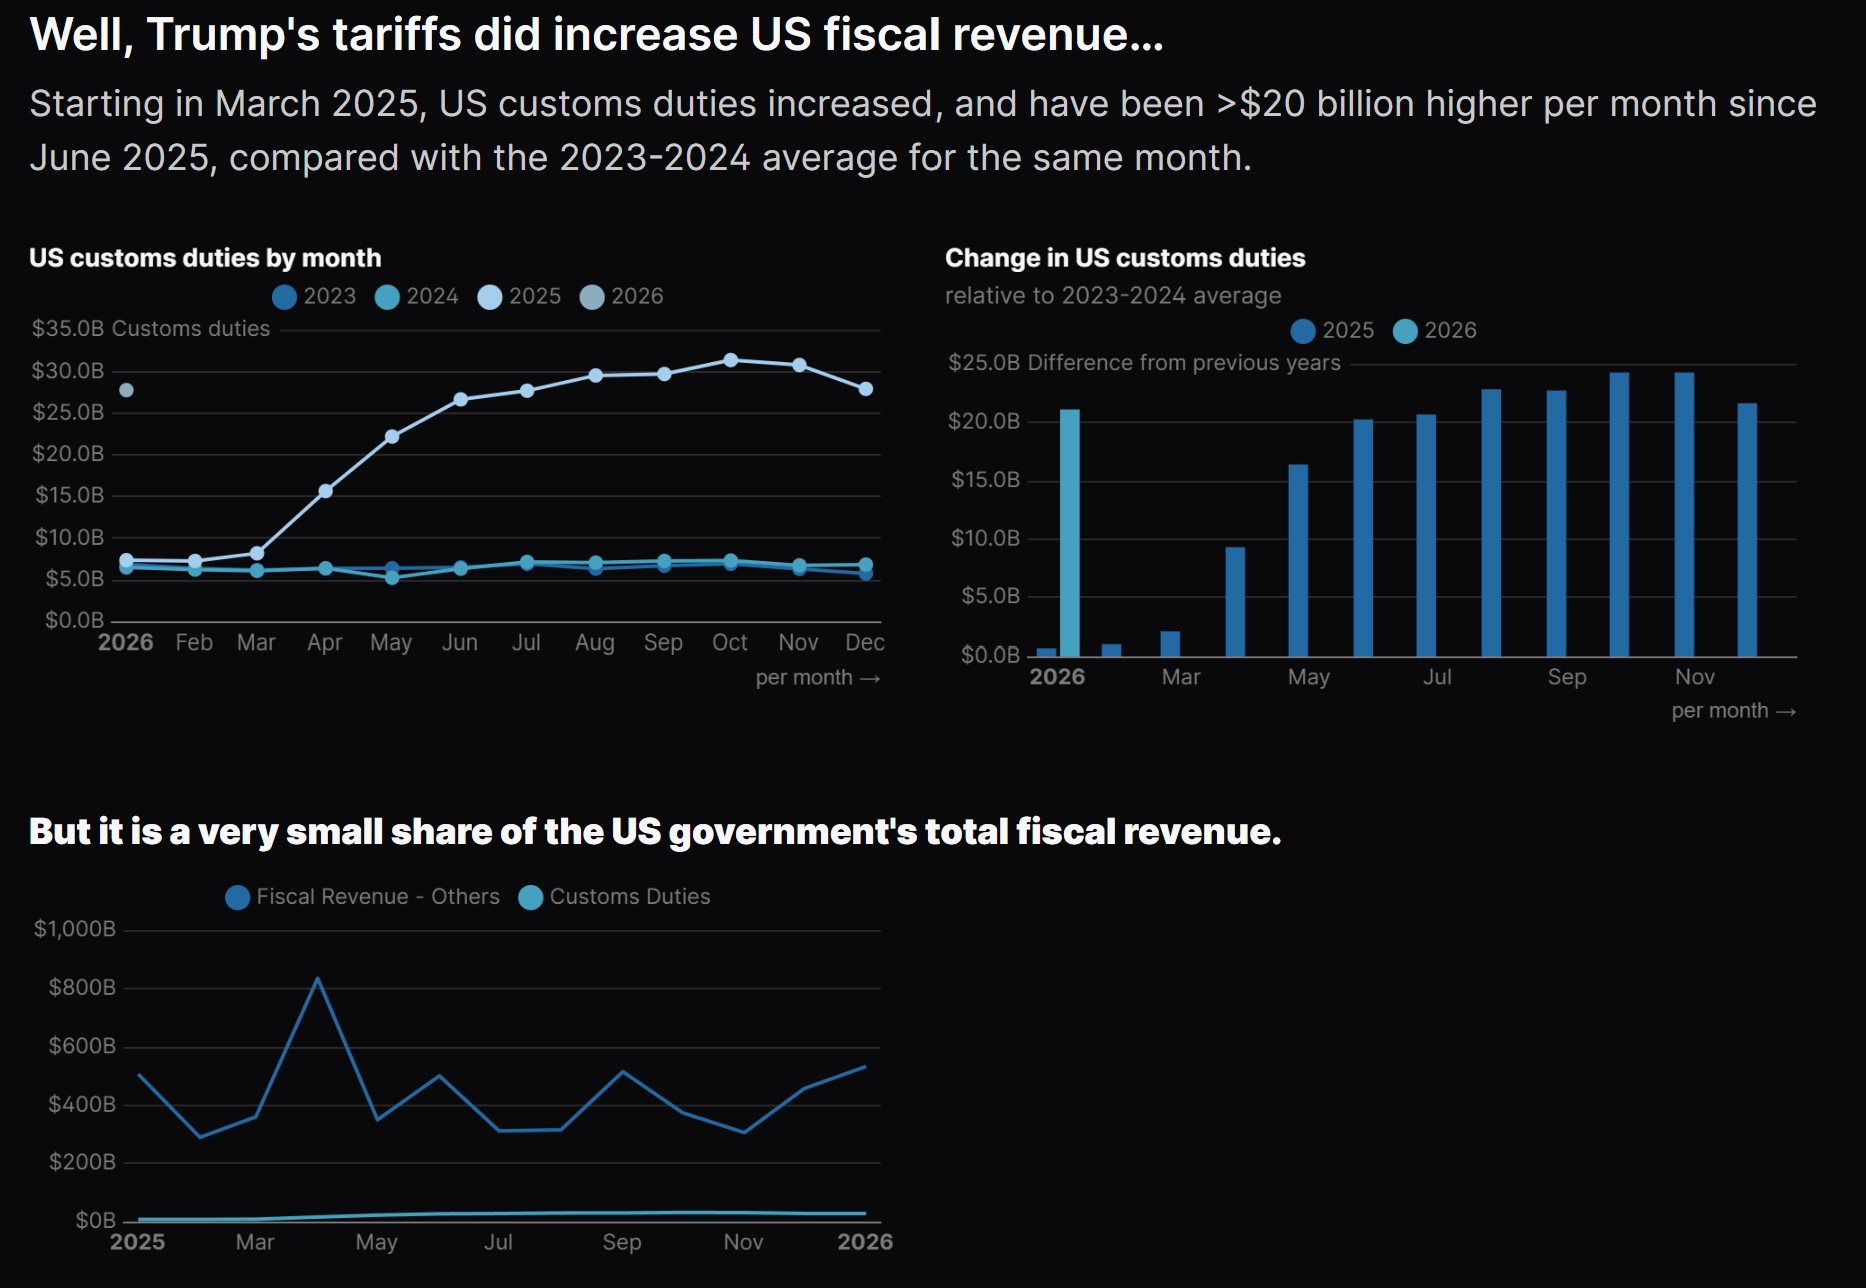
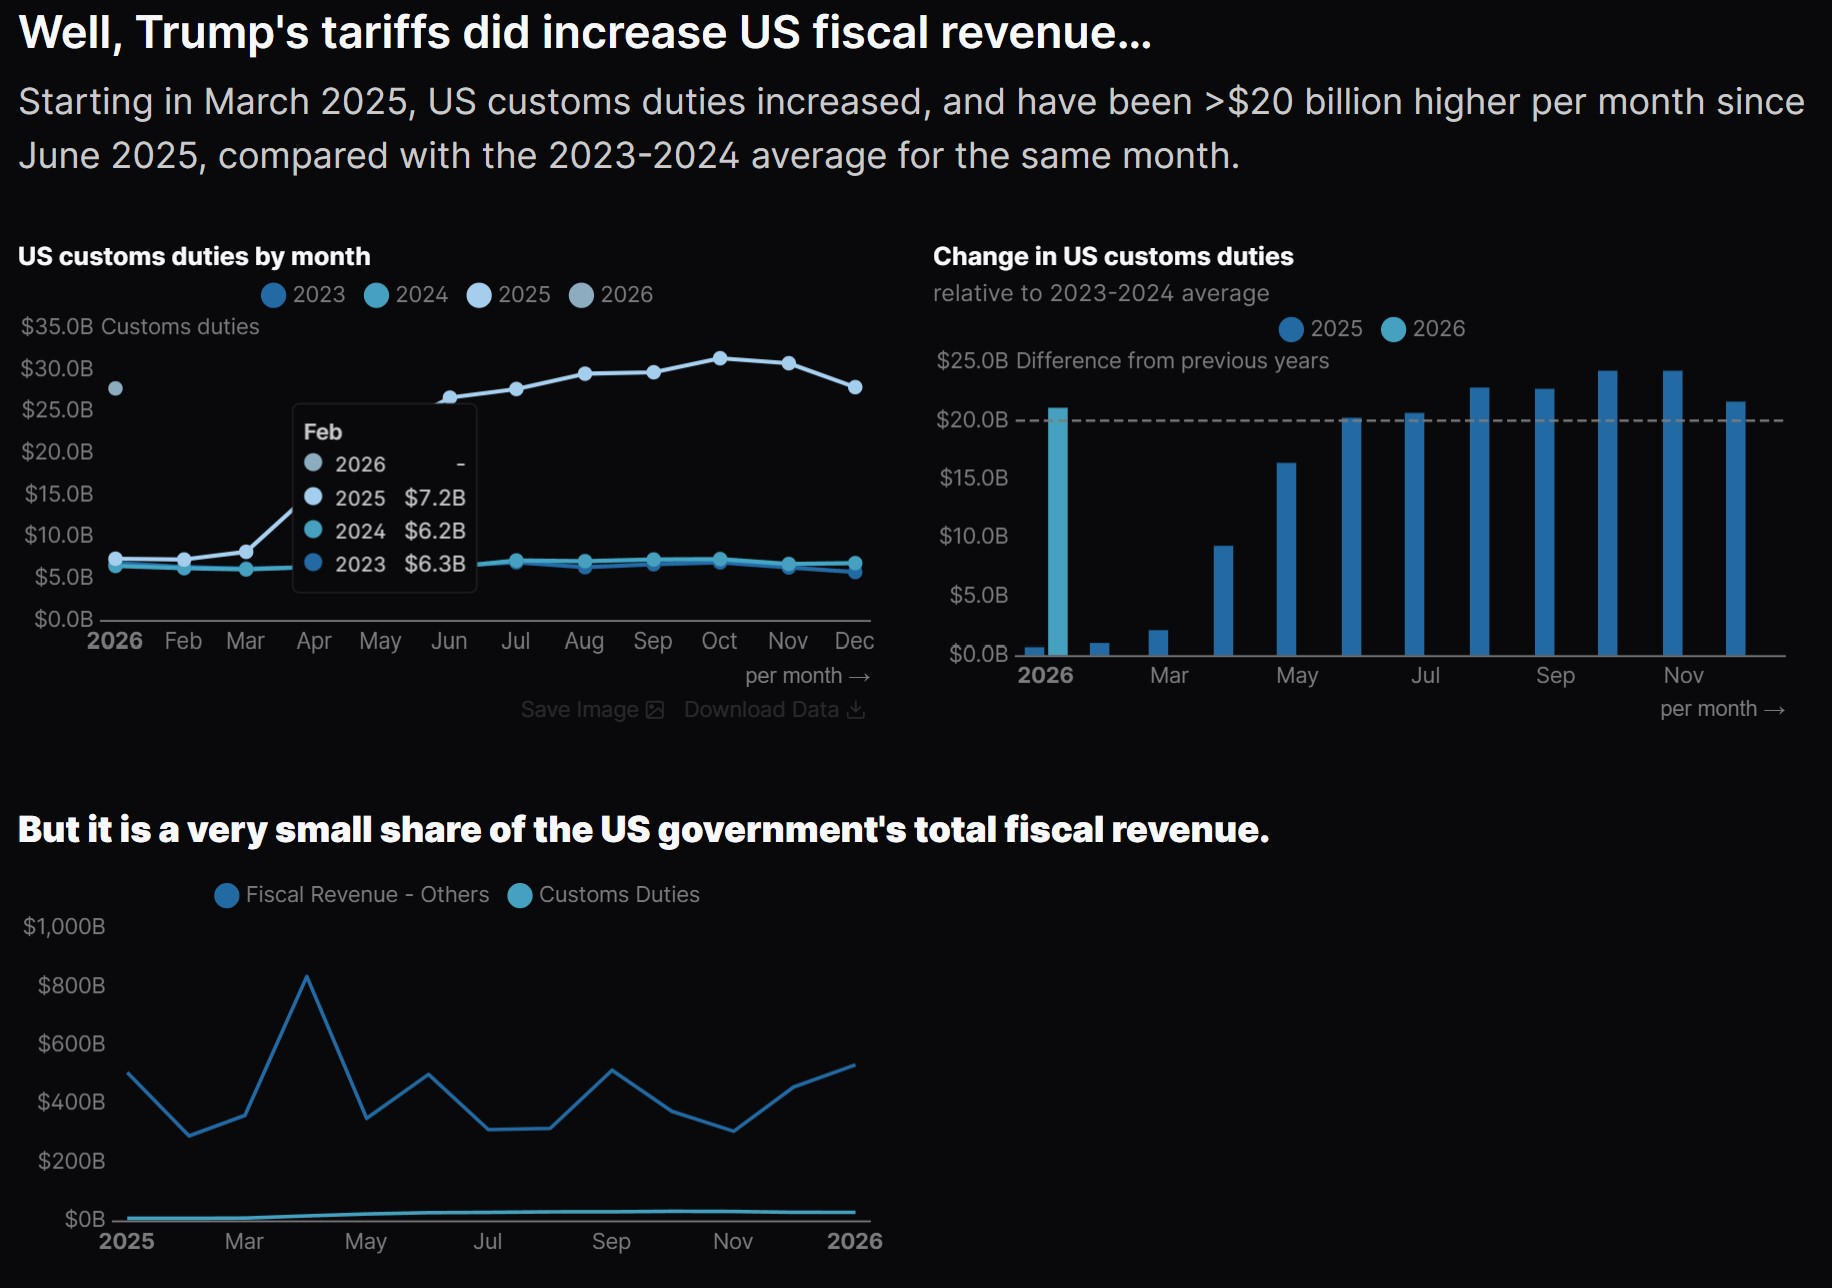
readme update

diff --git a/README.md b/README.md
@@ -6,7 +6,7 @@
 
 ![treasury_report](./docs/images/labor_report.jpg)
 
-### What did the Trump's tariffs do? and the reality.
+### What did the Trump's tariffs do? and yet the reality.
 
 ![treasury_report](./docs/images/treasury_report.jpg)
 
